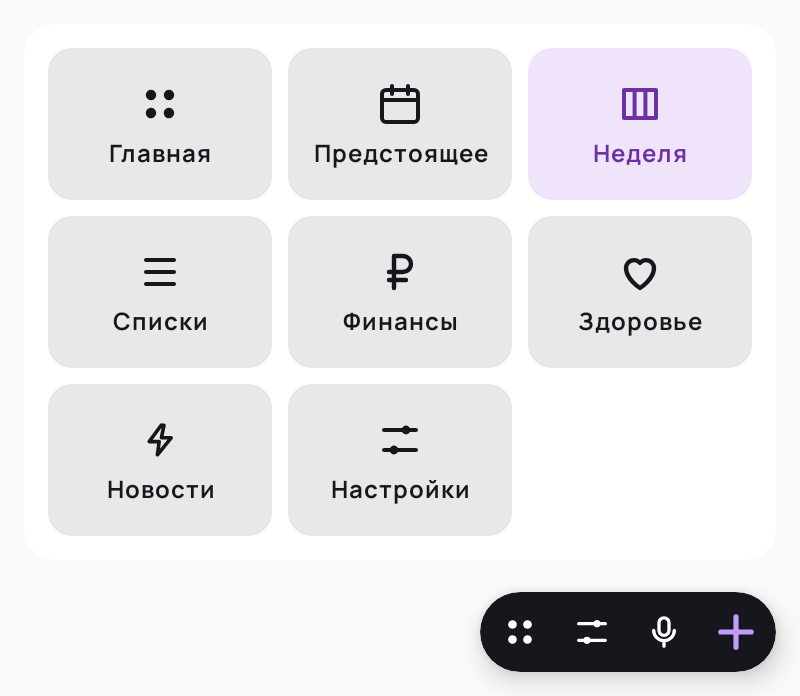
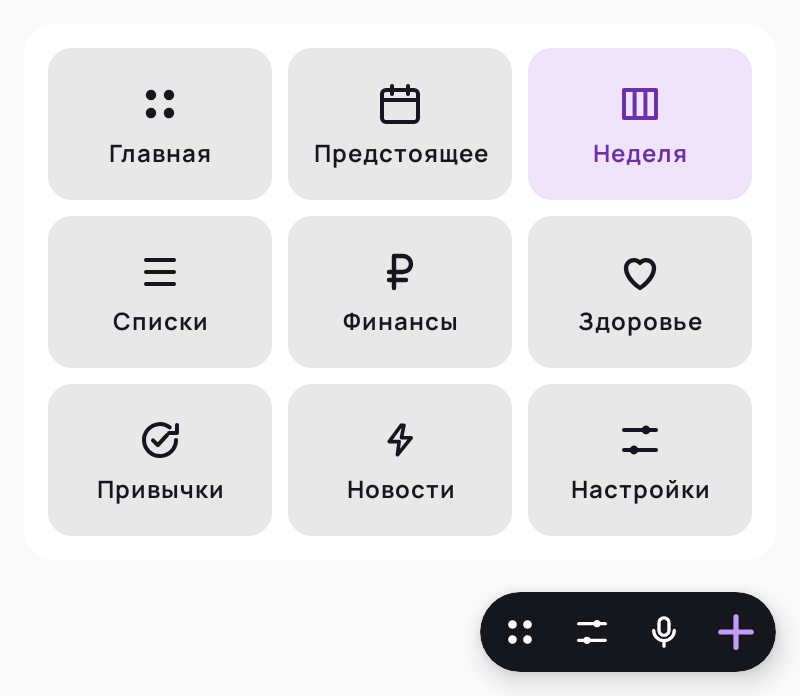
0.97.0: проверка модуля «Привычки» — прогон, снимки, замечание lint
Claude-Session: https://claude.ai/code/session_019jJJH8rKyfX5gCn8Qf3pcD

diff --git a/app/src/main/java/com/prostovasei/simpletasks/widget/WidgetHabits.kt b/app/src/main/java/com/prostovasei/simpletasks/widget/WidgetHabits.kt
@@ -7,6 +7,7 @@ import android.os.Build
 import android.view.View
 import android.widget.RemoteViews
 import androidx.annotation.RequiresApi
+import androidx.core.net.toUri
 import com.prostovasei.simpletasks.MainActivity
 import com.prostovasei.simpletasks.R
 import com.prostovasei.simpletasks.domain.model.habits.Habit
@@ -46,7 +47,7 @@ internal fun habitsViews(context: Context, id: Int, habits: List<Habit>, today: 
         setRemoteAdapter(R.id.widget_habits_list, items.build())
         setPendingIntentTemplate(R.id.widget_habits_list, PendingIntent.getBroadcast(
             context, id,
-            Intent(context, WidgetActionReceiver::class.java).setAction(WidgetActions.TOGGLE_HABIT).setData(android.net.Uri.parse("simpletasks://widget/$id/habits")),
+            Intent(context, WidgetActionReceiver::class.java).setAction(WidgetActions.TOGGLE_HABIT).setData("simpletasks://widget/$id/habits".toUri()),
             PendingIntent.FLAG_MUTABLE or PendingIntent.FLAG_UPDATE_CURRENT,
         ))
         removeAllViews(R.id.widget_habits_bar)
@@ -94,7 +95,7 @@ internal fun hubHabitViews(views: RemoteViews, context: Context, id: Int, habits
 private fun openHabits(context: Context, id: Int): PendingIntent = PendingIntent.getActivity(
     context, id,
     Intent(context, MainActivity::class.java).putExtra(MainActivity.EXTRA_OPEN_HABITS, true)
-        .setData(android.net.Uri.parse("simpletasks://widget/$id/open-habits"))
+        .setData("simpletasks://widget/$id/open-habits".toUri())
         .addFlags(Intent.FLAG_ACTIVITY_NEW_TASK or Intent.FLAG_ACTIVITY_CLEAR_TOP),
     PendingIntent.FLAG_IMMUTABLE or PendingIntent.FLAG_UPDATE_CURRENT,
 )

diff --git a/docs/testing-runs/0.97.0-local.md b/docs/testing-runs/0.97.0-local.md
@@ -1,0 +1,22 @@
+# 0.97.0 — локальная проверка (#340)
+
+25.11.2026, Claude Code, облачный контейнер. Ветка `claude/habits` от main `d9dd962` (+ запись выпуска 0.96.0). Поручение PM: ТЗ, макеты, код,
+проверка и выпуск без промежуточных согласований.
+
+## Код и проверка
+
+- `./gradlew assembleDebug check recordRoborazziDebug` — успешно: 997 тестов, 0 ошибок, 3 пропуска; lint и проверка дизайн-токенов прошли.
+  Снимки, зависящие от даты и версии, возвращены к main. После прогона в `WidgetHabits.kt` заменён `Uri.parse` на `toUri` (замечание lint) —
+  `WidgetHabitsTest`, `WidgetHubTest`, `AppSmokeTest` перезапущены отдельно: успешно.
+- Миграция 13 → 14: `MigrationTest.habitTablesAreAddedAndExistingDataIsKept` — база версии 13 с задачей, счётом, категорией, бюджетом и весом
+  открывается версией 14, данные на месте, новые таблицы работают.
+- Новые тесты: `HabitMathTest` (серии по дням, по дням недели, по неделям; лучшая серия; доля за 30 дней), `HabitRepositoryTest` (сохранение,
+  отметки, порядок, архив, удаление каскадом, резервная копия и негодный файл), `HabitsViewModelTest` (окно, будущие дни, карточка, архив, удаление,
+  напоминание), `HabitsScreenTest` (экран, карточка с календарём, окно, пустой экран; снимки `habits_light`, `habit_card_light`, `habit_form_light`),
+  `WidgetHabitsTest` (строки на сегодня, серии, подписи для TalkBack, пустые состояния; снимок `widget_habits_light`), `WidgetHubTest` (плашки привычек),
+  `AppSmokeTest.habitsCreateCheckAndOpenCard` (раздел → «+ Привычка» → отметка → карточка → задачи).
+- Снимки выбора раздела (плитка «Привычки») и главной страницы настроек обновлены.
+- Дизайн-система собирается: компонент `HabitRow`.
+
+Не проверено локально: напоминание по будильнику и уведомление на телефоне, отметка из виджета на рабочем столе, вид на Android 10–11
+(раздел виджета «Привычки» там скрыт) — HT340 на телефоне.

diff --git a/design/approved/340/README.md b/design/approved/340/README.md
@@ -3,7 +3,7 @@
 25.11.2026, Claude Code. Поручение PM: трекер привычек с сериями дней (идея №3 «что взять у конкурентов», как в TickTick) отдельным модулем;
 ТЗ, макеты, код, проверка и выпуск — без промежуточных согласований («шурши, разрешаю»).
 
-Статус: **код** → проверка (0.97.0).
+Статус: **проверка** (0.97.0, [прогон](../../../docs/testing-runs/0.97.0-local.md)) → выпуск.
 
 - [ТЗ](requirements.md).
 - [Конструктор](constructor.html) ([артефакт](https://claude.ai/artifact/2QzhZA5r1KLZjLzUemigzC)): экран модуля, карточка с календарём, окно создания,

diff --git a/docs/HANDOFF.md b/docs/HANDOFF.md
@@ -23,6 +23,7 @@
 Исполнитель Claude Code, ветка `claude/habits` (от `claude/release-0960`). Поручение PM: ТЗ, макеты, код, проверка и выпуск без промежуточных
 согласований. Код написан (ARCHITECTURE §4.122, SPEC §30, чек-лист HT340, [ТЗ](../design/approved/340/requirements.md),
 [решения](../design/approved/340/README.md)): данные (миграция 13 → 14), раздел, карточка, окно, хаб, виджет, напоминание, копия.
+«Проверка»: 0.97.0, полный прогон успешен (997 тестов, [запись](testing-runs/0.97.0-local.md)), PR открыт; выпуск — следом, по поручению PM.
 
 ## Следующее
 
